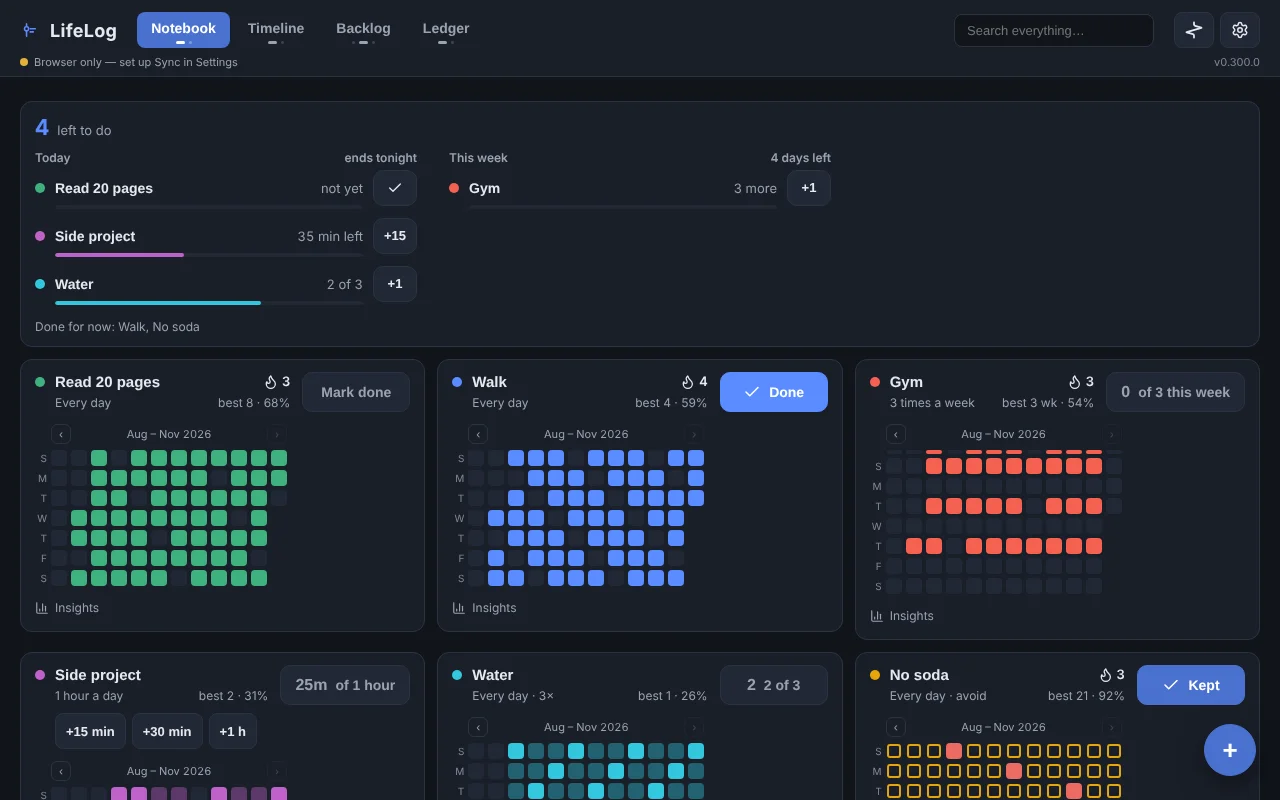
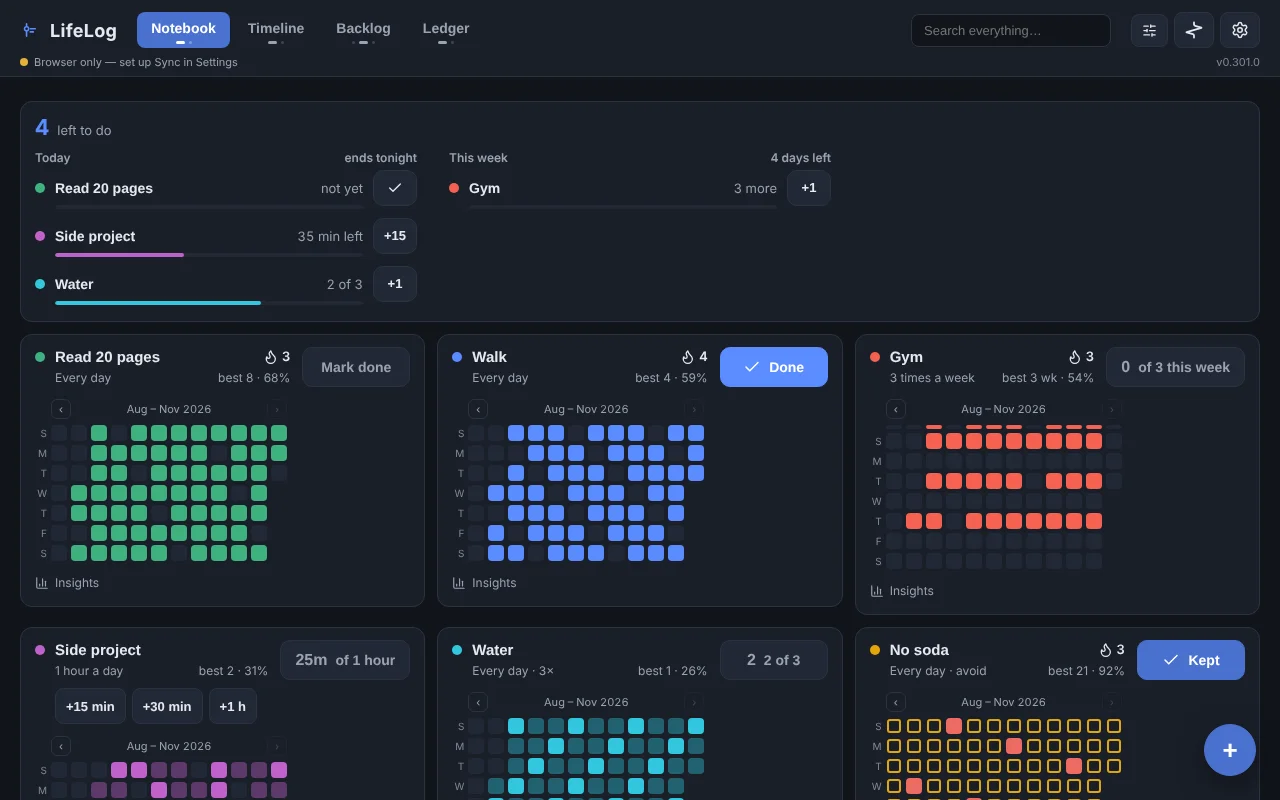
Habits View button: hide Left to do; drop the "Done for now" line (#30)
Daniel asked to remove the line under Left to do that lists what's done,
and for a View button on Habits with an option to turn the panel off.
Habits is a mode of the Notes tab, so the View options key it as its own
view ("habits") through viewKey(); Notes itself still has no View button.
The setting is visual.habitsLeftPanel (show/hide), per device like the
other View options. No data change, so no bridge tool is needed.

Claude-Session: https://claude.ai/code/session_01CFeKrk1hRbgm2cBsbQTftc

diff --git a/src/settings.js b/src/settings.js
@@ -731,7 +731,9 @@
   // the words in the language. The lists that rows are drawn into (tab
   // switches, history, categories) are data, not settings, and are skipped.
   const DYNAMIC = "#tabToggles, #mediaCatRows, #historyList, #trashList";
-  const VIEW_NAMES = { timeline: "Timeline", backlog: "Backlog", finance: "Ledger" };
+  const VIEW_NAMES = { timeline: "Timeline", backlog: "Backlog", finance: "Ledger", habits: "Habits" };
+  // Habits is a mode of the Notes tab, but its options are its own.
+  const viewKey = (view) => (view === "notes" && state.notesMode === "habits" ? "habits" : view);
   const squash = (t) => (t || "").replace(/\s+/g, " ").replace(/[…:]+\s*$/, "").trim();
   const shownIn = (n, root) => { for (let x = n; x && x !== root; x = x.parentElement) if (x.hidden) return false; return true; };
 
@@ -859,6 +861,7 @@
     $("#timelineMonthSummary").value = state.visual.timelineMonthSummary || "hide";
     $("#backlogCounts").value = state.visual.backlogCounts;
     $("#outTodaySheet").value = state.visual.outTodaySheet || "show";
+    $("#habitsLeftPanel").value = state.visual.habitsLeftPanel || "show";
     const A = window.LifeLogAlerts;
     const alertsHere = !!(A && A.available());
     $("#releaseAlertsRow").hidden = !alertsHere;
@@ -890,9 +893,14 @@
   // Opened from a search result for another tab, it goes to that tab first:
   // the options are for seeing their effect, which needs the list under them.
   function openViewOptions(view) {
-    view = view || state.view;
+    view = view || viewKey(state.view);
     if (!hasViewOptions(view)) return;
-    if (view !== state.view && switchToView) switchToView(view);
+    if (view === "habits") {
+      if (viewKey(state.view) !== "habits") {
+        state.notesMode = "habits";
+        if (state.view !== "notes" && switchToView) switchToView("notes"); else render();
+      }
+    } else if (view !== state.view && switchToView) switchToView(view);
     fillViewOptions();
     $("#viewOptionsTitle").textContent = (VIEW_NAMES[view] || "View") + " view";
     document.querySelectorAll("#viewOptionsModal [data-for]").forEach((sec) => {
@@ -904,7 +912,7 @@
 
   function syncViewOptionsButton(view) {
     const b = $("#viewOptionsBtn");
-    if (b) b.hidden = !hasViewOptions(view);
+    if (b) b.hidden = !hasViewOptions(viewKey(view));
   }
 
   function renderMediaCatRows() {
@@ -1639,6 +1647,11 @@
     $("#backlogFoldDropped").onchange = onBandFoldChange;
     $("#ledgerMonthSummary").onchange = onMonthSummaryChange;
     $("#timelineMonthSummary").onchange = onMonthSummaryChange;
+    $("#habitsLeftPanel").onchange = () => {
+      state.visual.habitsLeftPanel = $("#habitsLeftPanel").value;
+      saveVisualSettings(state.visual);
+      render();
+    };
     $("#currency").onchange = async () => {
       state.data.settings.currency = $("#currency").value;
       render();

diff --git a/test/browser/habits.js b/test/browser/habits.js
@@ -90,7 +90,7 @@ const stored = (page) => page.evaluate(() => window.LifeLogStorage.cachedCopy().
       today: document.querySelector(".habit-left").innerText.replace(/\s+/g, " "),
     }));
     check("a tap ticks today and extends the streak", /4/.test(after.streak) && after.done, after);
-    check("and the panel follows", /Nothing left for now/.test(after.today) && /Done for now: Read/.test(after.today), after.today);
+    check("and the panel follows", /Nothing left for now/.test(after.today) && !/Done for now/.test(after.today), after.today);
     check("the right day was recorded, not some other one",
       (await stored(page))[0].marks[TODAY] === 1, (await stored(page))[0].marks);
 
@@ -756,7 +756,20 @@ const stored = (page) => page.evaluate(() => window.LifeLogStorage.cachedCopy().
     await page.waitForTimeout(400);
     h = (await stored(page)).find((x) => x.id === "p");
     const after = await panel();
-    check("saving the sheet sets the day, and a met goal leaves the list", h.marks[TODAY] === 70 && !/Project \d/.test(after) && /Done for now: Project/.test(after), { m: h.marks, after });
+    check("saving the sheet sets the day, and a met goal leaves the list", h.marks[TODAY] === 70 && !/Project \d/.test(after) && !/Done for now/.test(after), { m: h.marks, after });
+
+    // Habits has its own View options: the Left to do panel can be hidden.
+    check("the View button shows on Habits", await page.locator("#viewOptionsBtn").isVisible());
+    await page.click("#viewOptionsBtn");
+    check("and holds the Left to do choice", await page.locator("#habitsLeftPanel").isVisible()
+      && await page.locator('#viewOptionsModal [data-for="backlog"]').isHidden());
+    await page.selectOption("#habitsLeftPanel", "hide");
+    await page.waitForTimeout(300);
+    check("hiding it takes the panel away", await page.locator(".habit-left").count() === 0);
+    await page.selectOption("#habitsLeftPanel", "show");
+    await page.click("#closeViewOptionsBtn");
+    await page.waitForTimeout(300);
+    check("and showing it brings it back", await page.locator(".habit-left").count() === 1);
 
     // The form writes a goal as a sentence: 2 hours a week.
     await page.locator('.habit-card[data-id="p"] .habit-name').click();

diff --git a/src/app.js b/src/app.js
@@ -53,7 +53,7 @@
   // object, so a default declared here is the only one there is — a `||` at
   // the read site is a second copy that can drift from it.
   // maxWidth 0 = stretch.
-  const DEFAULT_VISUAL = { monthMinWidth: 180, monthMaxWidth: 0, fontFamily: "system", pollInterval: 30, forceLayout: "none", theme: "default", timelineCoverSize: "small", backlogCoverSize: "big", backlogLayout: "list", timelineLayout: "list", backlogSummaries: "show", backlogCounts: "split", discoverHideOwned: false, outTodaySheet: "show", ledgerMonthSummary: "show", timelineMonthSummary: "hide",
+  const DEFAULT_VISUAL = { monthMinWidth: 180, monthMaxWidth: 0, fontFamily: "system", pollInterval: 30, forceLayout: "none", theme: "default", timelineCoverSize: "small", backlogCoverSize: "big", backlogLayout: "list", timelineLayout: "list", backlogSummaries: "show", backlogCounts: "split", discoverHideOwned: false, outTodaySheet: "show", ledgerMonthSummary: "show", timelineMonthSummary: "hide", habitsLeftPanel: "show",
     // One per set-aside band: "always" (a plain rule, never folds), "open"
     // (foldable, starts open) or "collapsed" (foldable, starts folded).
     // Dropped starts folded because it is the band you gave up on; the other

diff --git a/index.html b/index.html
@@ -2120,6 +2120,19 @@
         <p class="hint">Whether each block at the end of a category can fold behind a bar like <em>▸ Unreleased 12</em>, and how it starts. A folded block isn't drawn at all.</p>
       </section>
 
+      <section class="sgroup" data-for="habits">
+        <div class="sgroup-card">
+          <label class="sitem">
+            <span class="sitem-text"><span class="sitem-title">Left to do</span><span class="sitem-sub">The list at the top of what's still open</span></span>
+            <select id="habitsLeftPanel">
+              <option value="show">Show</option>
+              <option value="hide">Hide</option>
+            </select>
+          </label>
+        </div>
+        <p class="hint">Hiding it changes nothing else: each habit's card still shows what's left. This device only.</p>
+      </section>
+
       <section class="sgroup" data-for="finance">
         <div class="sgroup-card">
           <label class="sitem">

diff --git a/src/styles.css b/src/styles.css
@@ -3687,7 +3687,6 @@ html.force-mobile .view-options-overlay[hidden] > .modal { translate: 0 100%; }
   background: var(--bg-elev-2); border-radius: var(--r-hair); overflow: hidden;
 }
 .habit-left-bar > i { display: block; height: 100%; background: var(--habit-colour, var(--accent)); border-radius: var(--r-hair); }
-.habit-left-done { margin: var(--space-10) 0 0; font-size: var(--fs-xs); color: var(--text-dim); }
 
 /* A timed habit's quick adds, under its name. */
 .habit-steps { display: flex; flex-wrap: wrap; gap: var(--space-8) var(--space-6); margin: var(--space-8) 0 0 var(--space-20); }

diff --git a/src/habits.js b/src/habits.js
@@ -636,7 +636,7 @@
     const R = window.LifeLogReminders;
     const remindBar = R && R.bar(all);
     if (remindBar) root.appendChild(remindBar);
-    const panel = leftPanel(all, today);
+    const panel = state.visual.habitsLeftPanel !== "hide" && leftPanel(all, today);
     if (panel) root.appendChild(panel);
 
     if (all.length) {
@@ -702,7 +702,6 @@
       }
       box.appendChild(groups);
     }
-    if (L.done.length) box.appendChild(el("p", "habit-left-done", "Done for now: " + L.done.map((h) => h.name).join(", ")));
     return box;
   }
 

diff --git a/README.md b/README.md
@@ -79,7 +79,7 @@ note shows.
 Habits to do or to avoid, every day or on set days, once or several times a
 day, or as a goal: a few times a week, month or year on any days, or a time
 in minutes ("1 hour a day"). Left to do, at the top, lists what's still open
-today and this period, with a button for the next bit. One tap ticks today;
+today and this period, with a button for the next bit (View can hide it). One tap ticks today;
 the grid pages back for backfilling. Streaks, a best run, and Insights (kept
 rate, longest run, best and weakest weekday, six months as bars). Reminders
 on Android and iPhone.

diff --git a/DONE.md b/DONE.md
@@ -154,6 +154,7 @@ Every release that adds a feature adds its line here in the same commit.
 - Habit reminders on Android and iPhone (0.183.0, 0.217.0)
 - Goals: a target per week, month or year on any days, or in minutes; streaks in periods (0.300.0)
 - Left to do: what's still open today and this week, month and year, at the top of Habits and in the habits widget (0.300.0)
+- Habits view option: hide the Left to do panel (View button, this device only)
 
 ## Ledger
 

diff --git a/changes/feature-habits-view.md b/changes/feature-habits-view.md
@@ -1,0 +1,5 @@
+### Added
+- Habits has a View button. Its one option hides the Left to do panel, on this device only.
+
+### Removed
+- The "Done for now" line under Left to do.
